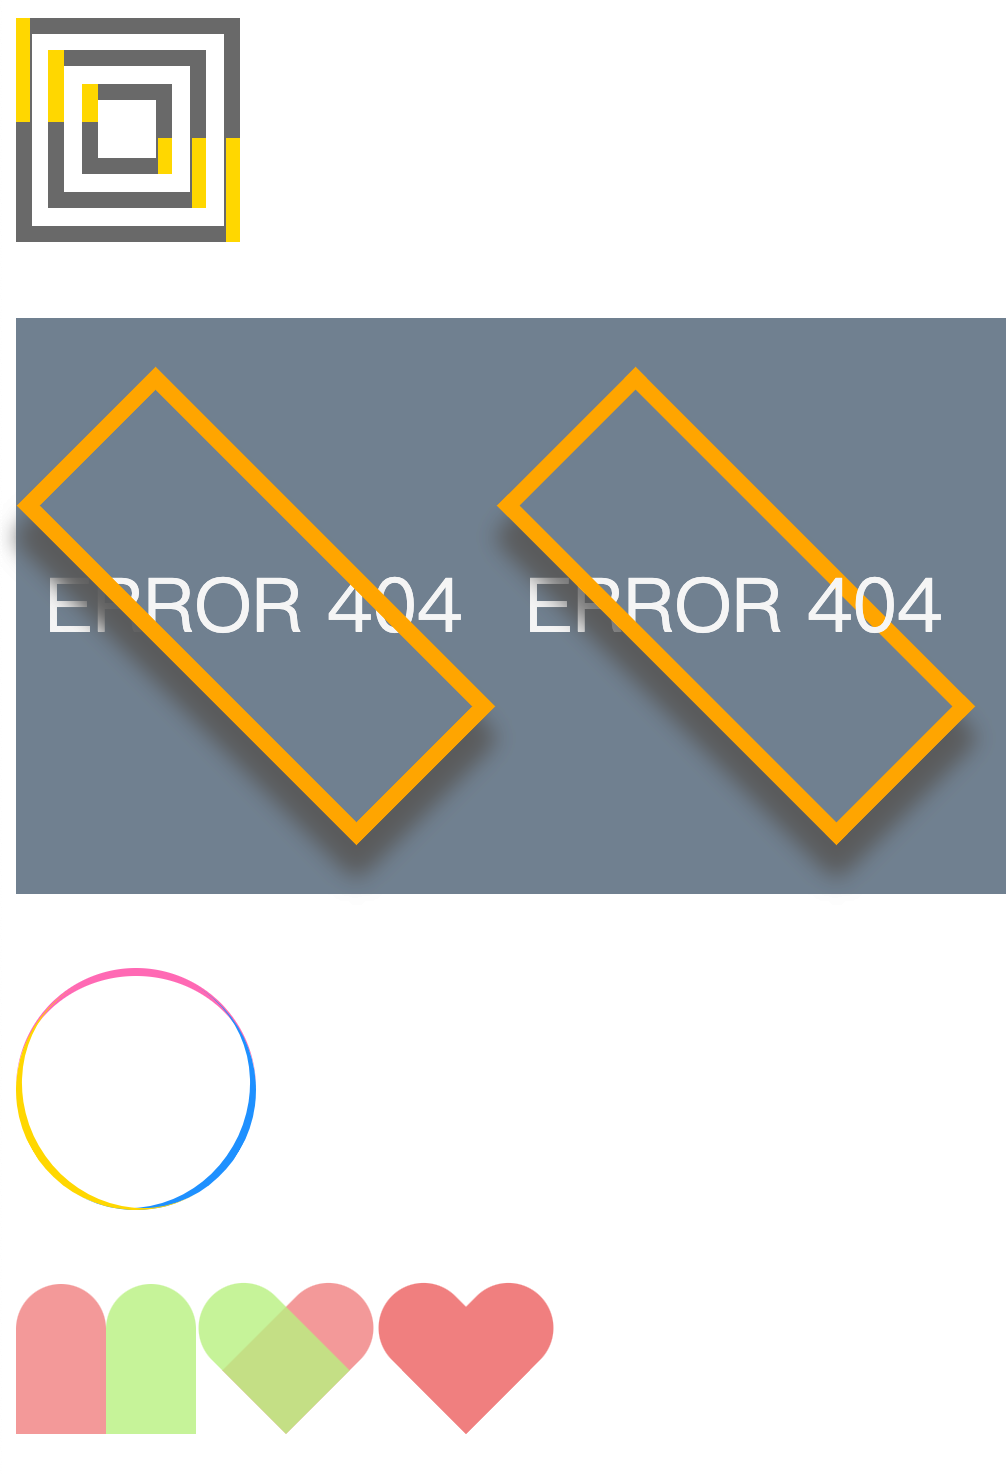
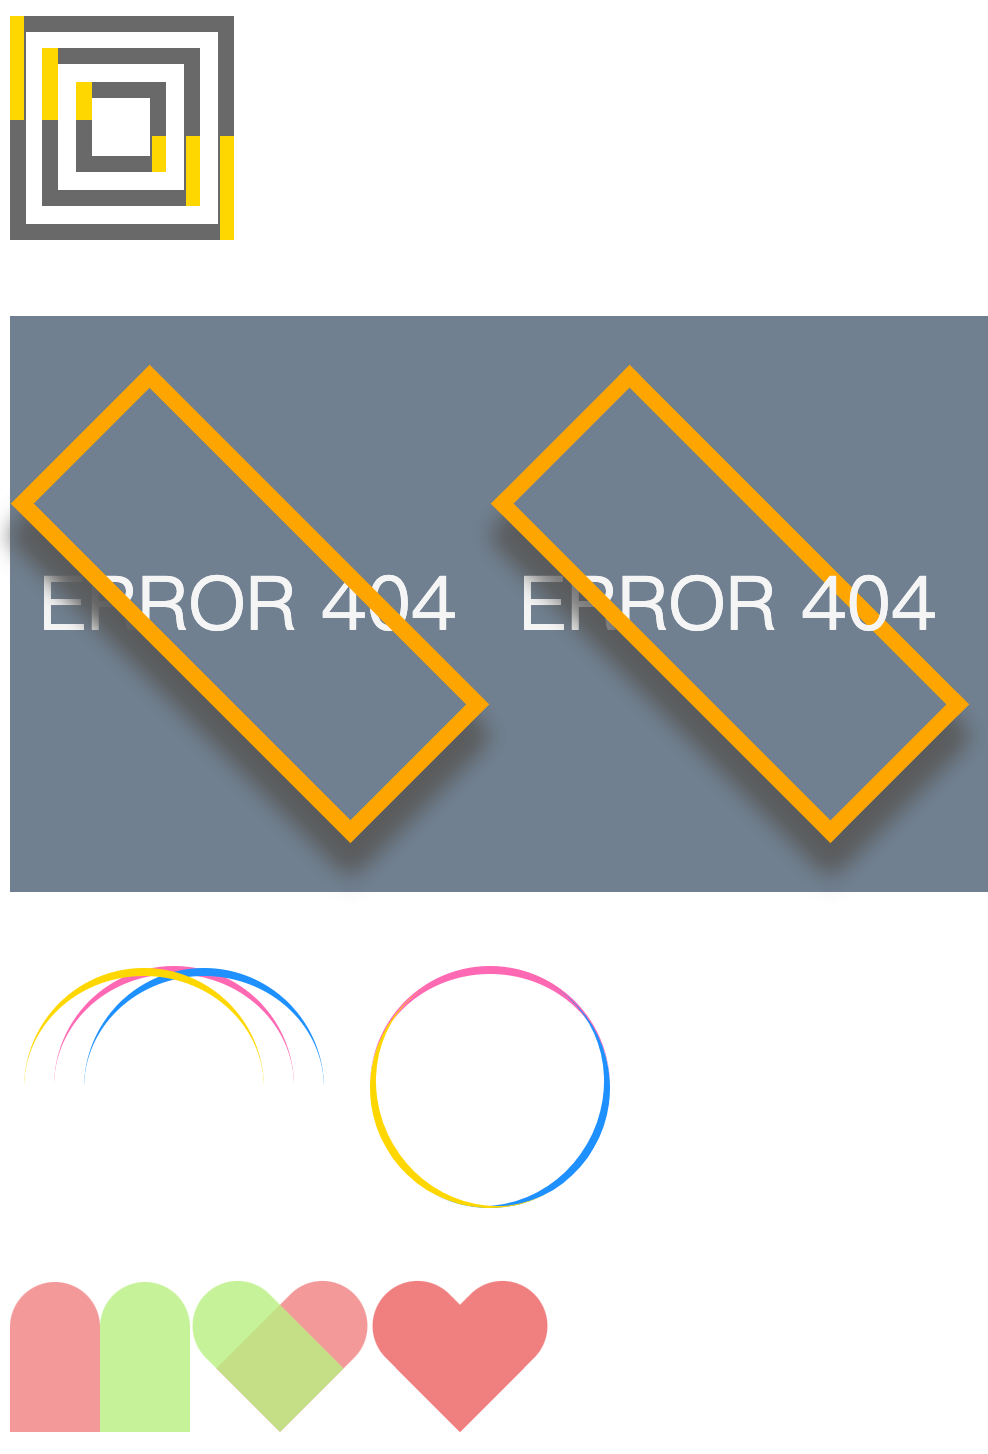
Update Ch2-monster

diff --git a/Ch2/style.css b/Ch2/style.css
@@ -110,7 +110,6 @@ figure.err p:nth-child(2)::before {
 }
 /* ---------------------------- */
 
-
 /* ---------------------------- */
 .circle,
 .circle::before,
@@ -140,15 +139,24 @@ figure.err p:nth-child(2)::before {
   color: gold;
 }
 
-.circle::before {
+.circle:nth-child(1)::before {
+  left: 20px;
+}
+.circle:nth-child(1)::after {
+  right: 20px;
+}
+
+.circle:nth-child(2) {
+  margin-left: 50px;
+}
+
+.circle:nth-child(2)::before {
   transform: rotate(120deg);
 }
-.circle::after {
+.circle:nth-child(2)::after {
   transform: rotate(240deg);
 }
 /* ---------------------------- */
-
-
 
 /* ---------------------------- */
 .heart {
@@ -186,7 +194,7 @@ figure.err p:nth-child(2)::before {
 
 .heart:nth-child(1)::before,
 .heart:nth-child(1)::after {
-  transform-origin:none;
+  transform-origin: none;
   transform: none;
 }
 
@@ -195,3 +203,123 @@ figure.err p:nth-child(2)::before {
   background-color: hsla(0, 79%, 72%, 1);
 }
 /* ---------------------------- */
+
+.monster-wrapper {
+  background-color: lightgoldenrodyellow;
+  margin: 0;
+  margin-top: 40px;
+  height: 400px;
+  display: flex;
+  align-items: center;
+  justify-content: center;
+}
+
+.monster {
+  font-size: 16px;
+  width: 10em;
+  height: 13em;
+  color: lightgreen;
+  background-color: currentColor;
+  border-radius: 5em 5em 5% 5% / 6em 6em 5% 5%;
+  position: relative;
+}
+
+.monster .eye {
+  position: absolute;
+  width: 6.5em;
+  height: 6.5em;
+  background-color: white;
+  border-radius: 50% / 60% 60% 40% 40%;
+  left: calc(50% - (6.5em) / 2);
+  top: 2em;
+  box-shadow: 0.2em 0.9em hsla(0, 0%, 0%, 0.1);
+  background-image: radial-gradient(
+      circle at 50% 25%,
+      white 0.4em,
+      transparent 0.4em
+    ),
+    radial-gradient(circle at 50% 40%, black 1.7em, transparent 1.7em);
+}
+
+.monster .mouth {
+  position: absolute;
+  width: 3em;
+  height: 2.1em;
+  background-color: black;
+  bottom: 1em;
+  left: calc(50% - (3em) / 2);
+  border-radius: 50% 50% 3em 3em;
+  overflow: hidden;
+}
+
+.mouth::before {
+  content: '';
+  position: absolute;
+  width: inherit;
+  height: 0.6em;
+  background-color: tomato;
+  bottom: 0;
+  border-radius: 50%;
+}
+
+.mouth .teeth,
+.mouth .teeth::before,
+.mouth .teeth::after {
+  position: absolute;
+  border-top: 0.8em solid white;
+  border-left: 0.4em solid transparent;
+  border-right: 0.4em solid transparent;
+  left: 1.1em;
+}
+
+.mouth .teeth::before,
+.mouth .teeth::after {
+  content: '';
+}
+
+.mouth .teeth::before {
+  left: -1.1em;
+  top: -0.8em;
+}
+.mouth .teeth::after {
+  left: 0.3em;
+  top: -0.8em;
+}
+
+.ear {
+  position: absolute;
+  width: 2.5em;
+  height: 5em;
+  top: -3.5em;
+  transform-origin: bottom;
+}
+
+.ear::before {
+  content: '';
+  position: absolute;
+  width: 1em;
+  height: 80%;
+  background-color: currentColor;
+  left: calc(50% - 0.5em);
+  bottom: 0;
+}
+
+.ear::after {
+  content: '';
+  position: absolute;
+  width: 2.5em;
+  height: 2.5em;
+  background-color: currentColor;
+  border-radius: 50%;
+  box-shadow: inset -0.3em -0.3em hsla(0, 0%, 0%, 0.1);
+}
+
+.ear.left {
+  left: 1em;
+  transform: rotate(-20deg);
+}
+
+.ear.right {
+  right: 1em;
+  transform: rotate(23deg);
+}

diff --git a/Ch2/index.html b/Ch2/index.html
@@ -14,16 +14,30 @@
     </figure>
 
     <figure class="err">
-        <p class="error">ERROR 404</p>
-        <p class="error">ERROR 404</p>
+      <p class="error">ERROR 404</p>
+      <p class="error">ERROR 404</p>
     </figure>
 
-    <figure class="circle"></figure>
+    <figure style="display: flex; flex-direction: row; margin-left: 40px;">
+      <div class="circle"></div>
+      <div class="circle"></div>
+    </figure>
 
     <figure style="display: flex; flex-direction: row;">
       <div class="heart"></div>
       <div class="heart"></div>
       <div class="heart"></div>
+    </figure>
+
+    <figure class="monster-wrapper">
+      <div class="monster">
+        <div class="ear left"></div>
+        <div class="ear right"></div>
+        <div class="eye"></div>
+        <div class="mouth">
+          <div class="teeth"></div>
+        </div>
+      </div>
     </figure>
   </body>
 </html>

diff --git a/README.md b/README.md
@@ -26,3 +26,4 @@
 ## Ch2
 
 ![ch02-1](./assets/Ch2-1.png)
+![ch02-monster](./assets/Ch2-monster.png)
